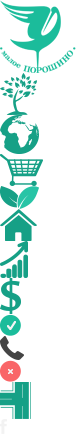
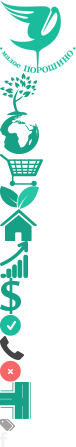
finish main page

Changed region(s): [[0.0, 0.0, 1.0, 0.9885]]

diff --git a/css/style.css b/css/style.css
@@ -5,8 +5,8 @@
   display: table;
 }
 
-/* line 138, icons/*.png */
-.icons-sprite, .icons-cart, .icons-dollar, .icons-ecology, .icons-error, .icons-fb, .icons-good, .icons-infrostructure, .icons-logo, .icons-phone, .icons-prestige, .icons-quality, .icons-situation, .icons-tree, .sbm-btn2223123, .top-big-picture .apply .field:after, .top-big-picture .apply .field.error:after {
+/* line 146, icons/*.png */
+.icons-sprite, .icons-cart, .icons-dollar, .icons-ecology, .icons-error, .icons-fb, .icons-good, .icons-infrostructure, .icons-label, .icons-logo, .icons-phone, .icons-prestige, .icons-quality, .icons-situation, .icons-tree, .sbm-btn2223123, .top-big-picture .apply .field:after, .top-big-picture .apply .field.error:after {
   background: url('../img/icons.png') no-repeat;
 }
 
@@ -40,7 +40,7 @@
 
 /* line 60, ../../../../../Library/Ruby/Gems/1.8/gems/compass-0.12.2/frameworks/compass/stylesheets/compass/utilities/sprites/_base.scss */
 .icons-fb {
-  background-position: 0 -419px;
+  background-position: 0 -432px;
   height: 15px;
   width: 7px;
 }
@@ -57,6 +57,13 @@
   background-position: 0 -382px;
   height: 37px;
   width: 31px;
+}
+
+/* line 60, ../../../../../Library/Ruby/Gems/1.8/gems/compass-0.12.2/frameworks/compass/stylesheets/compass/utilities/sprites/_base.scss */
+.icons-label {
+  background-position: 0 -419px;
+  height: 13px;
+  width: 16px;
 }
 
 /* line 60, ../../../../../Library/Ruby/Gems/1.8/gems/compass-0.12.2/frameworks/compass/stylesheets/compass/utilities/sprites/_base.scss */
@@ -103,7 +110,7 @@
 
 /* line 7, ../sass/_sprite.scss */
 .sbm-btn2223123 {
-  background-position: 0 -419px;
+  background-position: 0 -432px;
 }
 
 /* line 10, ../sass/_sprite.scss */
@@ -450,34 +457,46 @@ h3.heading-green-bg {
 
 /* line 206, ../sass/_main.scss */
 .top-big-picture {
+  margin-top: 80px;
   position: relative;
   background: url(../img/border.png) no-repeat 0 0;
-  background: url(../img/slide1.jpg) no-repeat 50% 0;
+  background: url(../img/slide1.jpg) no-repeat 50% 4px;
 }
-/* line 210, ../sass/_main.scss */
+/* line 211, ../sass/_main.scss */
+.top-big-picture:before {
+  content: "";
+  background: url(../img/border.png) no-repeat;
+  position: absolute;
+  top: 0;
+  left: 0;
+  z-index: 2;
+  width: 100%;
+  height: 4px;
+}
+/* line 221, ../sass/_main.scss */
 .top-big-picture .inn {
   width: 980px;
   margin: 0 auto;
   height: 450px;
 }
-/* line 215, ../sass/_main.scss */
+/* line 227, ../sass/_main.scss */
 .top-big-picture .apply {
   float: right;
   width: 350px;
   box-shadow: 0 0 5px rgba(0, 0, 0, 0.5);
   margin-top: 15px;
-  background: rgba(255, 255, 255, 0.9);
+  background: rgba(255, 255, 255, 0.7);
   padding: 15px 0;
   -webkit-transition: 0.3s;
   -moz-transition: 0.3s;
   -o-transition: 0.3s;
   transition: 0.3s;
 }
-/* line 223, ../sass/_main.scss */
+/* line 235, ../sass/_main.scss */
 .top-big-picture .apply:hover {
   background: white;
 }
-/* line 226, ../sass/_main.scss */
+/* line 238, ../sass/_main.scss */
 .top-big-picture .apply .heading {
   padding: 0 30px 20px;
   border-bottom: 1px solid #d1d3d1;
@@ -485,16 +504,16 @@ h3.heading-green-bg {
   font-size: 24px;
   text-transform: uppercase;
 }
-/* line 233, ../sass/_main.scss */
+/* line 245, ../sass/_main.scss */
 .top-big-picture .apply .container {
   padding: 0 30px;
 }
-/* line 236, ../sass/_main.scss */
+/* line 248, ../sass/_main.scss */
 .top-big-picture .apply .field {
   margin: 0 0 10px;
   position: relative;
 }
-/* line 239, ../sass/_main.scss */
+/* line 251, ../sass/_main.scss */
 .top-big-picture .apply .field:after {
   content: "";
   width: 21px;
@@ -505,17 +524,17 @@ h3.heading-green-bg {
   z-index: 2;
   background-position: 0 -314px;
 }
-/* line 250, ../sass/_main.scss */
+/* line 262, ../sass/_main.scss */
 .top-big-picture .apply .field.error:after {
   background-position: 0 -360px;
 }
-/* line 253, ../sass/_main.scss */
+/* line 265, ../sass/_main.scss */
 .top-big-picture .apply .field.error input {
   color: #f96668;
   border-color: #f96668;
   box-shadow: 0 0 1px #f96668;
 }
-/* line 260, ../sass/_main.scss */
+/* line 272, ../sass/_main.scss */
 .top-big-picture .apply .field .required-field {
   font-size: 8px;
   line-height: 10px;
@@ -523,7 +542,7 @@ h3.heading-green-bg {
   color: #8d8d8d;
   margin-bottom: 3px;
 }
-/* line 267, ../sass/_main.scss */
+/* line 279, ../sass/_main.scss */
 .top-big-picture .apply .field input {
   background: #f4f4f4;
   border-radius: 3px;
@@ -538,16 +557,16 @@ h3.heading-green-bg {
   line-height: 20px;
   position: relative;
 }
-/* line 280, ../sass/_main.scss */
+/* line 292, ../sass/_main.scss */
 .top-big-picture .apply .field input:focus {
   outline: none;
 }
-/* line 287, ../sass/_main.scss */
+/* line 299, ../sass/_main.scss */
 .top-big-picture .apply .submit-btn {
   text-align: center;
   margin: 20px 0 20px;
 }
-/* line 290, ../sass/_main.scss */
+/* line 302, ../sass/_main.scss */
 .top-big-picture .apply .submit-btn button, .top-big-picture .apply .submit-btn input {
   display: inline-blcok;
   cursor: pointer;
@@ -559,27 +578,27 @@ h3.heading-green-bg {
   box-shadow: 0 -5px 0 rgba(0, 0, 0, 0.1) inset;
   outline: none;
 }
-/* line 300, ../sass/_main.scss */
+/* line 312, ../sass/_main.scss */
 .top-big-picture .apply .submit-btn button:hover, .top-big-picture .apply .submit-btn input:hover {
   background: #F84A4C;
 }
-/* line 303, ../sass/_main.scss */
+/* line 315, ../sass/_main.scss */
 .top-big-picture .apply .submit-btn button:active, .top-big-picture .apply .submit-btn input:active {
   box-shadow: 0 0 0 5px rgba(0, 0, 0, 0.1) inset;
 }
-/* line 308, ../sass/_main.scss */
+/* line 320, ../sass/_main.scss */
 .top-big-picture .apply .bottom-text {
   font-size: 10px;
   line-height: 14px;
   color: #8d8d8d;
 }
 
-/* line 320, ../sass/_main.scss */
+/* line 332, ../sass/_main.scss */
 figure, figcaption {
   display: block;
 }
 
-/* line 324, ../sass/_main.scss */
+/* line 336, ../sass/_main.scss */
 .transition {
   -webkit-transition: top 400ms linear;
   -moz-transition: top 400ms linear;
@@ -588,12 +607,12 @@ figure, figcaption {
   transition: top 400ms linear;
 }
 
-/* line 331, ../sass/_main.scss */
+/* line 343, ../sass/_main.scss */
 #countdown {
   height: 80px;
 }
 
-/* line 334, ../sass/_main.scss */
+/* line 346, ../sass/_main.scss */
 .timeTo {
   font-size: 28px;
   line-height: 108%;
@@ -602,7 +621,7 @@ figure, figcaption {
   margin: 0 auto;
 }
 
-/* line 342, ../sass/_main.scss */
+/* line 354, ../sass/_main.scss */
 .timeTo span {
   vertical-align: top;
   text-indent: -999em;
@@ -611,7 +630,7 @@ figure, figcaption {
   display: inline-block;
 }
 
-/* line 350, ../sass/_main.scss */
+/* line 362, ../sass/_main.scss */
 .timeTo div {
   color: white;
   position: relative;
@@ -628,7 +647,7 @@ figure, figcaption {
   overflow: hidden;
 }
 
-/* line 365, ../sass/_main.scss */
+/* line 377, ../sass/_main.scss */
 .timeTo div:after {
   content: "";
   width: 38px;
@@ -641,14 +660,14 @@ figure, figcaption {
   left: 50%;
 }
 
-/* line 377, ../sass/_main.scss */
+/* line 389, ../sass/_main.scss */
 .timeTo figure {
   display: inline-block;
   margin: 0;
   padding: 0;
 }
 
-/* line 382, ../sass/_main.scss */
+/* line 394, ../sass/_main.scss */
 .timeTo figcaption {
   text-align: center;
   /*font-size: 12px;*/
@@ -657,12 +676,12 @@ figure, figcaption {
   color: #333;
 }
 
-/* line 390, ../sass/_main.scss */
+/* line 402, ../sass/_main.scss */
 .timeTo div.first {
   border-left: 1px solid silver;
 }
 
-/* line 394, ../sass/_main.scss */
+/* line 406, ../sass/_main.scss */
 .timeTo ul {
   list-style-type: none;
   margin: 0;
@@ -671,7 +690,7 @@ figure, figcaption {
   left: 3px;
 }
 
-/* line 402, ../sass/_main.scss */
+/* line 414, ../sass/_main.scss */
 .timeTo ul li {
   margin: 0;
   padding: 0;
@@ -682,7 +701,7 @@ figure, figcaption {
   left: 4px;
 }
 
-/* line 411, ../sass/_main.scss */
+/* line 423, ../sass/_main.scss */
 #genplan, #leave-msg {
   margin-top: -100px;
   display: block;

diff --git a/sass/_main.scss b/sass/_main.scss
@@ -204,10 +204,22 @@ h3.heading-green-bg {
 }
 
 .top-big-picture {
+	margin-top:80px;
 	position:relative;
 	background:url(../img/border.png) no-repeat 0 0;
-	background: url(../img/slide1.jpg) no-repeat 50% 0;
+	background: url(../img/slide1.jpg) no-repeat 50% 4px;
+	&:before {
+		content:"";
+		background: url(../img/border.png) no-repeat;
+		position: absolute;
+		top:0;
+		left:0;
+		z-index: 2;
+		width:100%;
+		height:4px;
+	}
 	.inn {
+
 		width:980px;
 		margin:0 auto;
 		height:450px;
@@ -217,7 +229,7 @@ h3.heading-green-bg {
 		width:350px;
 		box-shadow:0 0 5px rgba(0,0,0, .5);
 		margin-top:15px;
-		background: rgba(255,255,255, .9);
+		background: rgba(255,255,255, .7);
 		padding:15px 0;
 		@include transition(.3s);
 		&:hover {

diff --git a/js/init.js b/js/init.js
@@ -1,4 +1,5 @@
 $(document).ready(function () {
+	time();
 	ymaps.ready(init);
         var myMap,
             myPlacemark;
@@ -34,7 +35,7 @@ $(window).load(function () {
 var time = function(){
 	if ($('#countdown').length) {
 		$('#countdown').timeTo({
-			timeTo: new Date(new Date('Mon Apr 27 2014 09:00:00 GMT+0300 (EEST)')),
+			timeTo: new Date(new Date('Mon May 27 2014 09:00:00 GMT+0300 (EEST)')),
 			displayDays: 2,
 			theme: "black",
 			displayCaptions: true,

diff --git a/main.html b/main.html
@@ -68,8 +68,7 @@
 	</div>
 	<div class="body">
 		<div class="action">
-
-
+<h2>Только до 01.06.2014 земля в подарок <br /> Осталось </h2>
     <div id="countdown"></div>
 			<!--<section class="time-left">
 				<div class="days">
